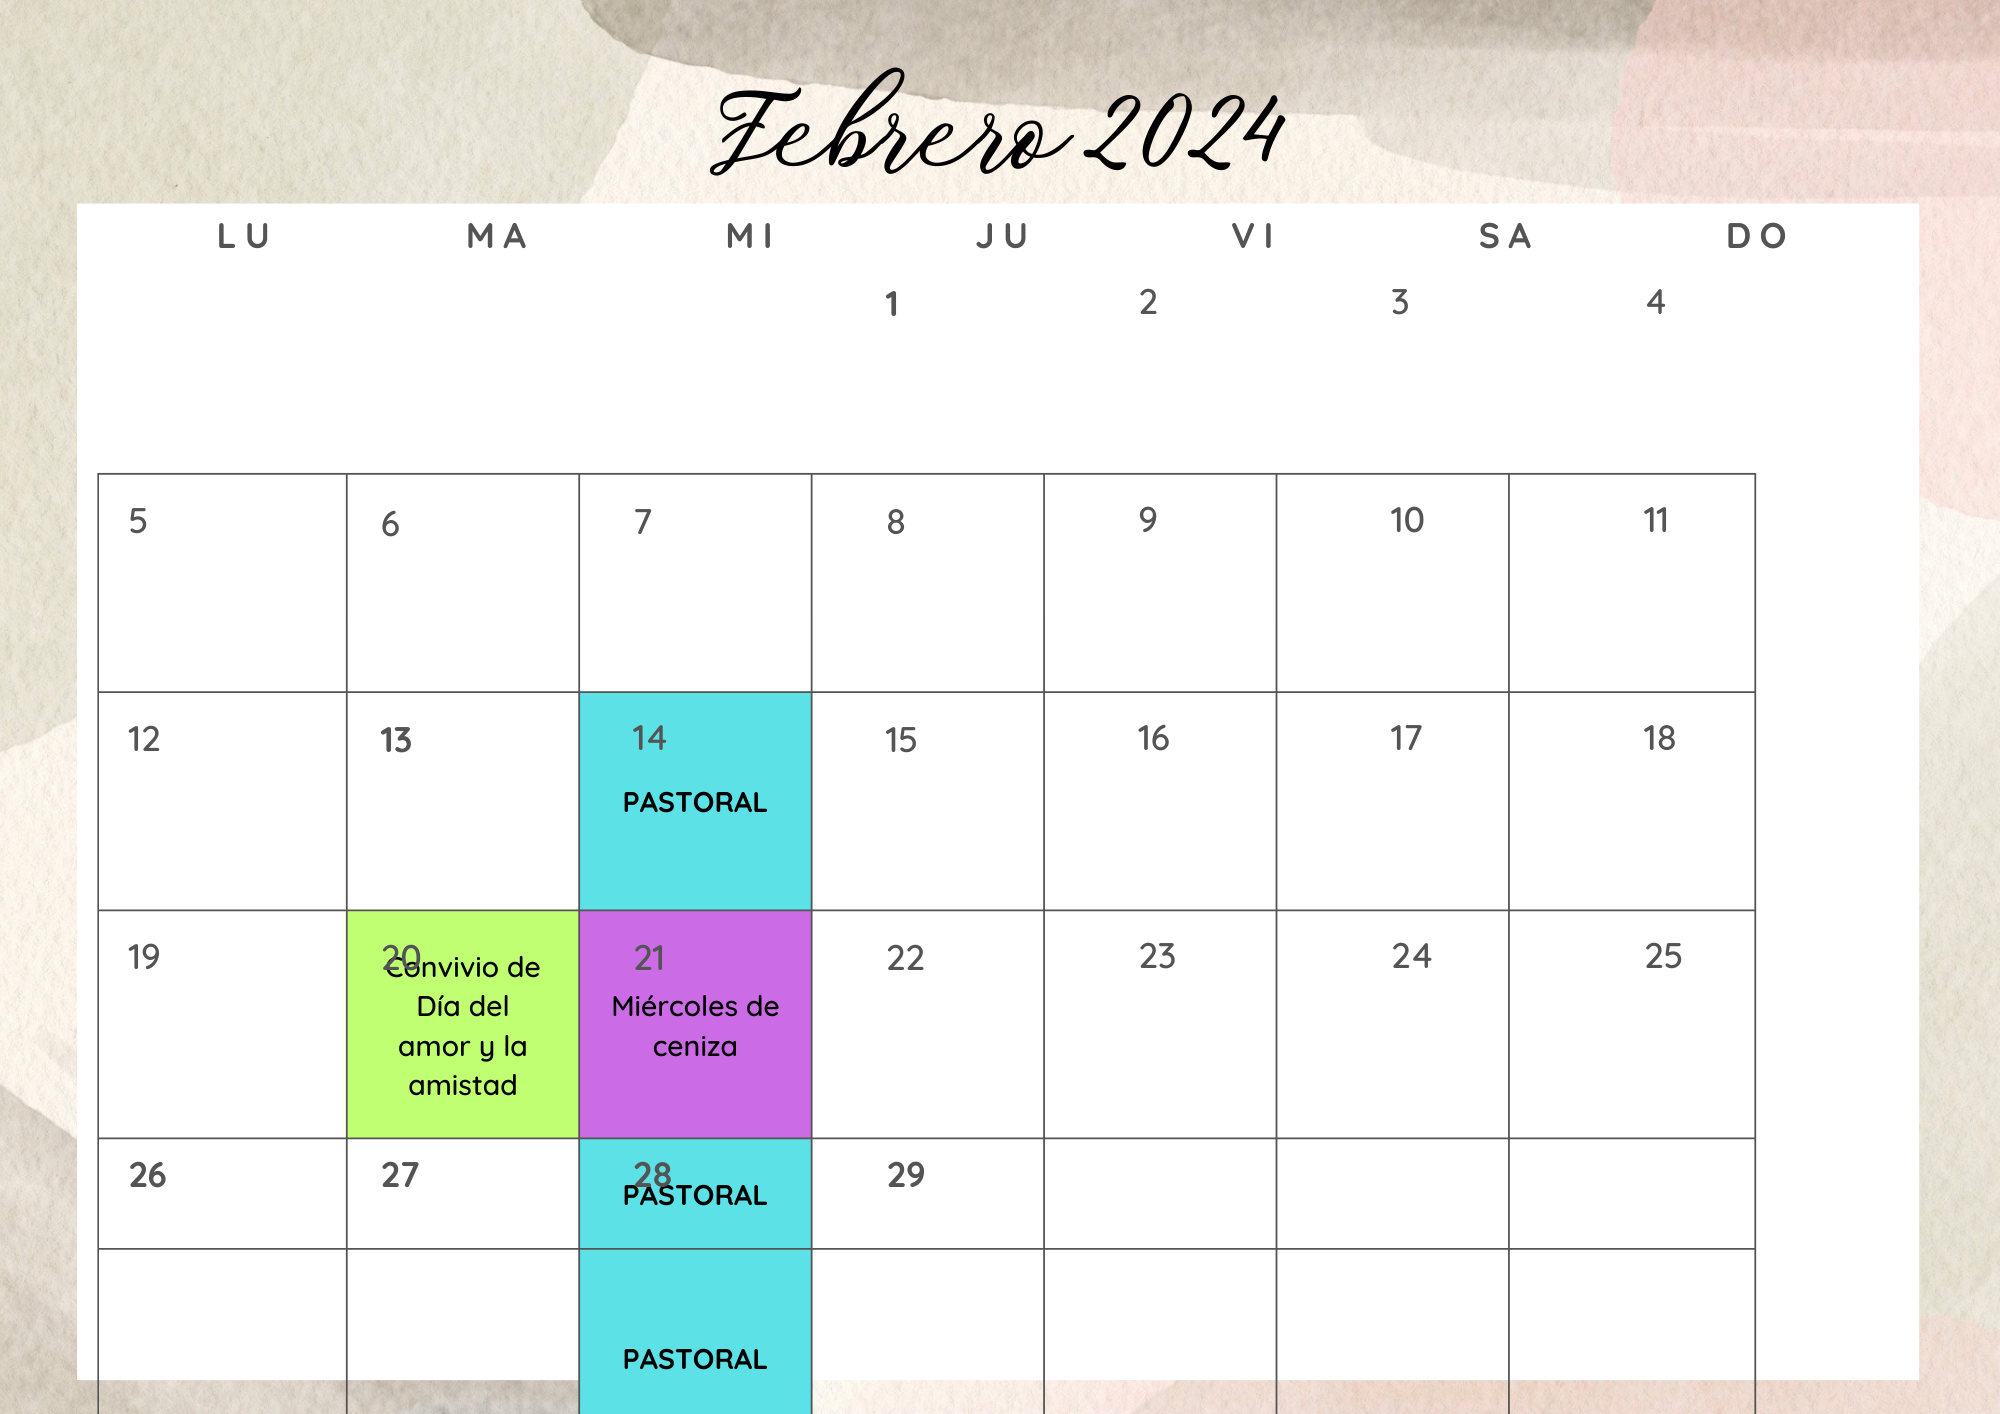
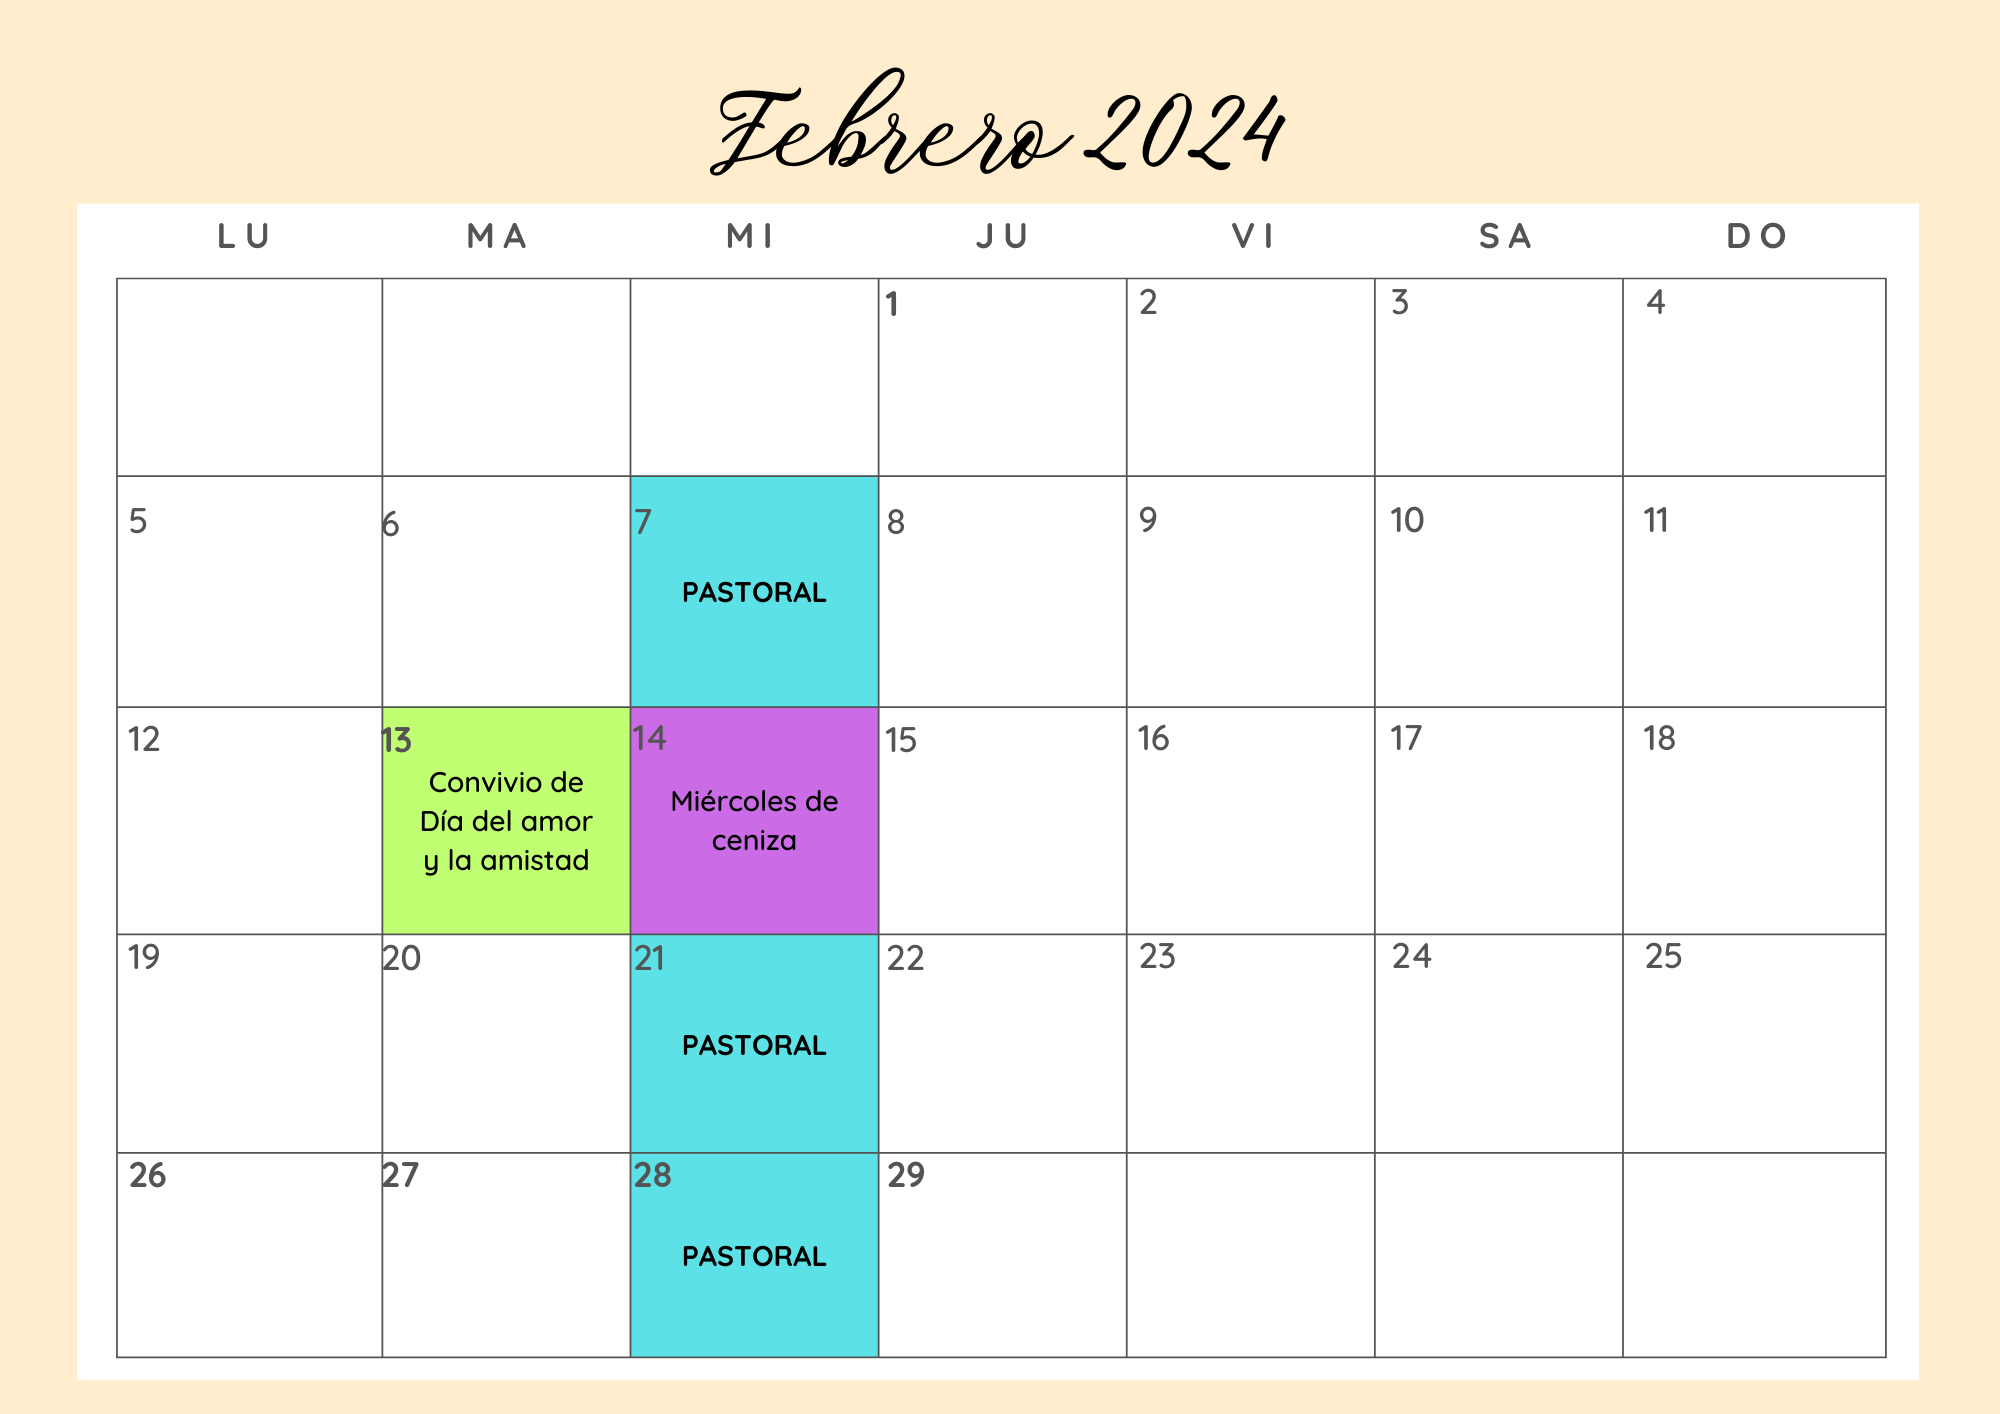
Pre-lanzamiento

diff --git a/about-item.html b/about-item.html
@@ -10,6 +10,7 @@
     <link rel="stylesheet" href="assets/css/urku.css">
   </head>
   <body class="top-fixed">
+    <div class="loader"></div>
     <header class="ae-container-fluid ae-container-fluid--full rk-header ">
       <input type="checkbox" id="mobile-menu" class="rk-mobile-menu">
       <label for="mobile-menu">
@@ -50,13 +51,14 @@
           <p class="ae-theta rk-portfolio-category " style="color: azure;">¡Eres bienvenido!</p>
         </div>
       </header>
+      <br>
       <div class="ae-container-fluid ae-container-fluid--inner rk-portfolio--inner">
         <div class="ae-grid ae-grid--collapse">
           <div class="ae-grid__item item-lg-6"><img src="assets/img/retiro.jpg" alt="Pastoral"></div>
           <div class="ae-grid__item item-lg-5 item-lg--offset-1 au-lg-ptp-1">
             <h4 class="ae-u-bolder">¡Nuestro Primer Retiro!</h4>
             <p class="ae-eta">
-              El día 03 de Diciembre del presente año se realizó nuestro primer retiro para los adolescentes dela comunidad, apoyado por el grupo de <a href="https://www.facebook.com/profile.php?id=100084162542815">Pastoral Juvenil Tala,</a> con su ayuda pudimos realizar este bonito retiro para que los adoescentes se unan más a Dios.
+              El día 03 de Diciembre de 2023, se realizó nuestro primer retiro para los adolescentes de la comunidad, apoyado por el grupo de <a href="https://www.facebook.com/profile.php?id=100084162542815">Pastoral Juvenil Tala,</a> quienes con su ayuda pudimos realizar este bonito retiro para que los adolescentes conozcan y se unan más a Dios.
             </p>
           </div>
         </div>
@@ -65,9 +67,9 @@
         <br>
         <div class="ae-grid ae-grid--collapse au-xs-ptp-1">
           <div class="ae-grid__item item-lg-5 au-lg-ptp-0">
-            <h4 class="ae-u-bolder">Día De Los Muertos💀</h4>
+            <h4 class="ae-u-bolder">Día De Los Muertos💀☦</h4>
             <p class="ae-eta">
-              Como cada año, realizamos un altar de muertos para recordar a aquellas personas que al día de hoy ya no se encuentran con nosotros, sin embargo sabemos que "No muere quien se va, muere quien se olvida". Este al ser nuestro primer altar, decidimos solicitar a la familia Orozco Casas su aceptación para conmemorar al joven José Luis Orozco Casas.
+              Como cada año, en México realizamos un altar de muertos para recordar a aquellas personas que al día de hoy ya no se encuentran con nosotros, sin embargo sabemos que "No muere quien se va, muere quien se olvida". Este al ser nuestro primer altar, decidimos solicitar a la familia Orozco Casas su aceptación para conmemorar al joven José Luis Orozco Casas.
             </p>
           </div>
           <div class="ae-grid__item item-lg-6 item-lg--offset-1">
@@ -82,7 +84,7 @@
           <div class="ae-grid__item item-lg-3 item-lg--offset-1 au-lg-ptp-1">
             <h4 class="ae-u-bolder">¡Nuestra primera peregrinación!</h4>
             <p class="ae-eta">
-              El comité encargado de las fiestas de la Virgen de nuestra comunidad se tomó el tiempo de tomarnos en cuenta para participar en la peregrinación el día 09 de Septiembre. ¡Un gusto haber estado ahí!.
+              El comité encargado de las fiestas de la Virgen de nuestra comunidad se tomó el tiempo de tomarnos en cuenta para participar en la peregrinación el día 09 de Septiembre de 2023. ¡Para nosotros fue un gusto haber estado ahí!.
             </p>
           </div>
           <div class="ae-grid ae-grid--collapse au-xs-ptp-1 au-xs-pbp-1">
@@ -98,17 +100,17 @@
           <div class="ae-grid ae-grid--collapse au-xs-ptp-1">
             <div class="ae-grid__item item-lg-5 au-lg-ptp--1">
               <h4 class="ae-u-bolder">Camiata Por La Paz</h4>
-              <p class="ae-eta">Durante la guerra de Israel con Palestina realizamos una caminata al cerro de nuestra localidad, el motivo de la caminata fue una manera de unirnos para realizar una petición a Dios dando un esfuerzo al subir el cerro, esto para que la guerra entre estas dos nacionalidades se detuviera.</p>
+              <p class="ae-eta">Durante la guerra de Israel con Palestina realizamos una caminata al cerro de nuestra localidad, el motivo de la caminata fue una manera de unirnos para realizar una petición a Dios, dando un esfuerzo de cada uno de nosotros al subir el cerro, esto para que la guerra entre estas dos naciones se detuviera.</p>
             </div>
             <div class="ae-grid__item item-lg-6 item-lg--offset-1"><img src="assets/img/pastoralgroup.jpg" alt="Pastoral"></div>
           </div>
-        <div class="ae-grid ae-grid--collapse au-xs-ptp-1 au-xs-pbp-1">
+        <!-- <div class="ae-grid ae-grid--collapse au-xs-ptp-1 au-xs-pbp-1">
           <div class="ae-grid__item item-lg-8 item-lg--offset-2">
             <h4 class="ae-u-bolder">Full Wide Text</h4>
             <p class="ae-eta">Excepteur sint occaecat cupidatat non proident, sunt in culpa qui officia deserunt mollit anim id est laborum.</p>
             <p class="ae-eta">Sed ut perspiciatis unde omnis iste natus error sit voluptatem accusantium doloremque laudantium, totam rem aperiam, eaque ipsa quae ab illo inventore veritatis.</p>
           </div>
-        </div>
+        </div> -->
         <br>
         <hr style="border-width: 3px; border-color: slategray;">
         <br>
@@ -171,6 +173,12 @@
         </div>
       </div>
     </footer>
+    <script src="https://ajax.googleapis.com/ajax/libs/jquery/2.2.4/jquery.min.js"></script>
+    <script type="text/javascript">
+      $(window).load(function() {
+          $(".loader").fadeOut("slow");
+      });
+      </script>
     <script src="assets/js/svg4everybody.min.js"></script>
     <script>svg4everybody();</script>
   </body>

diff --git a/blog.html b/blog.html
@@ -10,6 +10,7 @@
     <link rel="stylesheet" href="assets/css/urku.css">
   </head>
   <body class="top-fixed">
+    <div class="loader"></div>
     <header class="ae-container-fluid ae-container-fluid--full rk-header ">
       <input type="checkbox" id="mobile-menu" class="rk-mobile-menu">
       <label for="mobile-menu">
@@ -69,7 +70,7 @@
             </div>
             <div class="blog-info">
               <p class="blog-info__excerpt">
-                Si eres un adolescente activo, al que le guste colaborar con la sociedad, con sigo mismo, pero más que nada le gustaría que la palabra de Dios llegue a muchos rincones donde ha sido olvidada para que vuelva a ser escuchada, este lugar es para ti.
+                Si eres un adolescente activo, al que le guste colaborar con la sociedad, con sigo mismo, pero más que nada le gustaría que la palabra de Dios llegue a muchos rincones donde ha sido olvidada, y lograr hacer que vuelva a ser escuchada, este lugar es para ti.
               </p>
             </div>
           </div>
@@ -173,6 +174,12 @@
         </div>
       </div>
     </footer>
+    <script src="https://ajax.googleapis.com/ajax/libs/jquery/2.2.4/jquery.min.js"></script>
+    <script type="text/javascript">
+      $(window).load(function() {
+          $(".loader").fadeOut("slow");
+      });
+      </script>
     <script src="assets/js/svg4everybody.min.js"></script>
     <script>svg4everybody();</script>
   </body>

diff --git a/index.html b/index.html
@@ -10,6 +10,7 @@
     <link rel="stylesheet" href="assets/css/urku.css">
   </head>
   <body class="top-fixed">
+    <div class="loader"></div>
     <header class="ae-container-fluid ae-container-fluid--full rk-header ">
       <input type="checkbox" id="mobile-menu" class="rk-mobile-menu">
       <label for="mobile-menu">
@@ -49,7 +50,7 @@
         <div class="ae-grid ae-grid--collapse">
           <div class="ae-grid__item item-lg-6"><img src="assets/img/LogopastoralO.jpg" alt=""></div>
           <div class="ae-grid__item item-lg-3 item-lg--offset-1 au-lg-ptp-2">
-            <p class="au-mb-3">Mi padre murió por mi, y yo hablaré por Ël.</p>
+            <p class="au-mb-3">Mi padre murió por mi, y yo hablaré por Él.</p>
           </div>
         </div>
       </section>
@@ -99,6 +100,12 @@
         </div>
       </div>
     </footer>
+    <script src="https://ajax.googleapis.com/ajax/libs/jquery/2.2.4/jquery.min.js"></script>
+    <script type="text/javascript">
+      $(window).load(function() {
+          $(".loader").fadeOut("slow");
+      });
+      </script>
     <script src="assets/js/svg4everybody.min.js"></script>
     <script>svg4everybody();</script>
   </body>

diff --git a/contact.html b/contact.html
@@ -10,6 +10,7 @@
     <link rel="stylesheet" href="assets/css/urku.css">
   </head>
   <body class="top-fixed">
+    <div class="loader"></div>
     <header class="ae-container-fluid ae-container-fluid--full rk-header ">
       <input type="checkbox" id="mobile-menu" class="rk-mobile-menu">
       <label for="mobile-menu">
@@ -116,7 +117,7 @@
         </h6>
       </div>
       <div class="arrow-button arrow-button--reverse arrow-button--center">
-        <img src="./assets/months/enero.png" alt="calendar"/>
+        <img src="./assets/months/febrero.png" alt="calendar"/>
       </div>
       <br><br>
       <p class="au-flex au-pt-4 group-buttons">
@@ -178,6 +179,12 @@
         </div>
       </div>
     </footer>
+    <script src="https://ajax.googleapis.com/ajax/libs/jquery/2.2.4/jquery.min.js"></script>
+    <script type="text/javascript">
+      $(window).load(function() {
+          $(".loader").fadeOut("slow");
+      });
+      </script>
     <script src="assets/js/svg4everybody.min.js"></script>
     <script>svg4everybody();</script>
   </body>

diff --git a/assets/css/urku.css b/assets/css/urku.css
@@ -1,15 +1,26 @@
-/* * * * * * * * * * * * * * * * * * * * *\ 
- UrkuPortfolio v1.0.0 
- Urku is a prtfolio template with a very clean style. 
- (c) 2016 Lionel <lionel@pixeden.com> (http://pixeden.com) 
- https://bitbucket.org/elrumordelaluz/urkuportfolio 
- Licensed under  MIT 
-\* * * * * * * * * * * * * * * * * * * * */
+/* * * * * * * * * * * * * * * * * * * * *
+  UrkuPortfolio v1.0.0 
+  Urku is a prtfolio template with a very clean style. 
+  (c) 2016 Lionel <lionel@pixeden.com> (http://pixeden.com) 
+  https://bitbucket.org/elrumordelaluz/urkuportfolio 
+  Licensed under  MIT 
+* * * * * * * * * * * * * * * * * * * * */
+
 @charset "UTF-8";
 body {
   margin: 0;
 }
 
+.loader {
+  position: fixed;
+  left: 0px;
+  top: 0px;
+  width: 100%;
+  height: 100%;
+  z-index: 9999;
+  background: url('images/pageLoader.gif') 50% 50% no-repeat rgb(249,249,249);
+  opacity: .8;
+}
 .rk-container {
   margin-right: auto;
   margin-left: auto;

diff --git a/us.html b/us.html
@@ -10,6 +10,7 @@
     <link rel="stylesheet" href="assets/css/urku.css">
   </head>
   <body class="top-fixed">
+    <div class="loader"></div>
     <header class="ae-container-fluid ae-container-fluid--full rk-header ">
       <input type="checkbox" id="mobile-menu" class="rk-mobile-menu">
       <label for="mobile-menu">
@@ -181,6 +182,12 @@
         </div>
       </div>
     </footer>
+    <script src="https://ajax.googleapis.com/ajax/libs/jquery/2.2.4/jquery.min.js"></script>
+    <script type="text/javascript">
+      $(window).load(function() {
+          $(".loader").fadeOut("slow");
+      });
+      </script>
     <script src="assets/js/svg4everybody.min.js"></script>
     <script>svg4everybody();</script>
     <script src="assets/js/main.min.js"></script>
